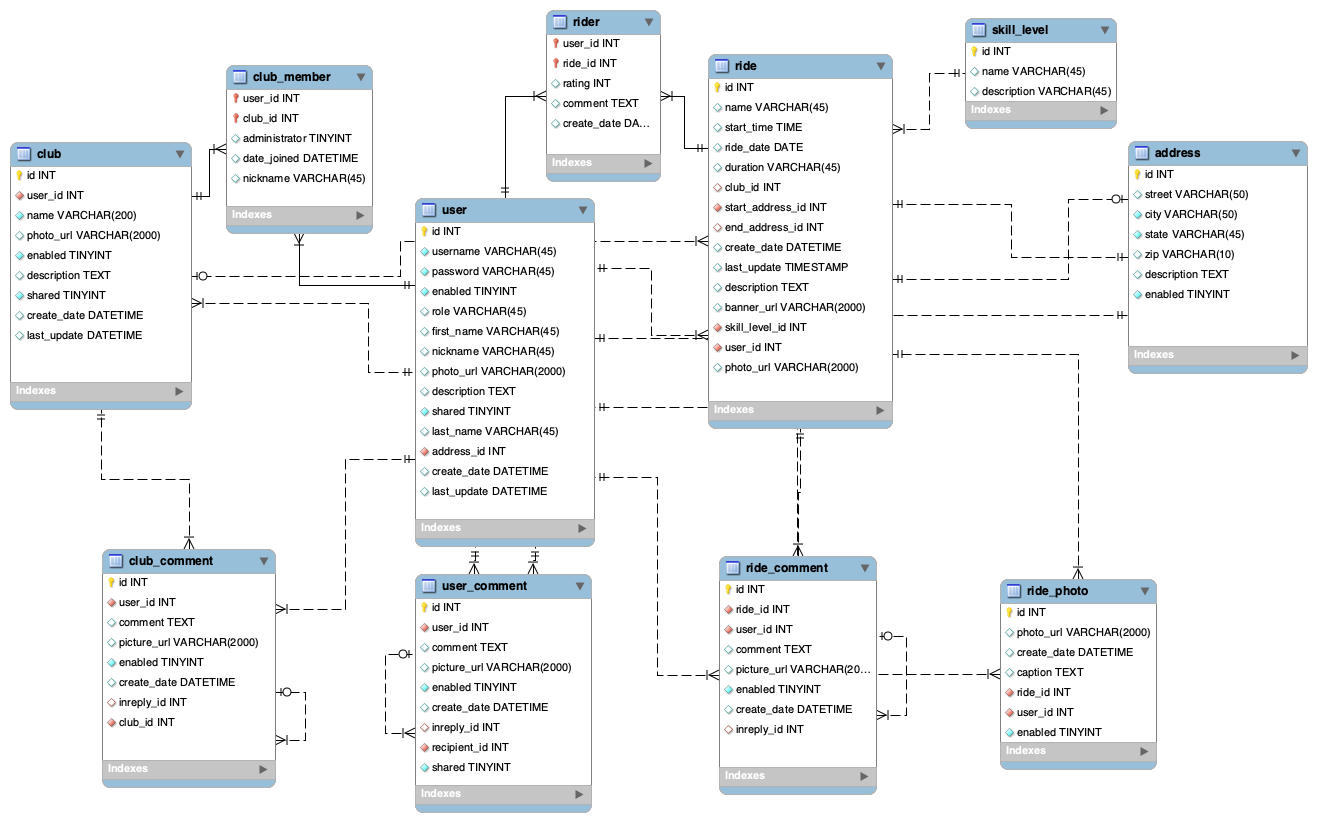
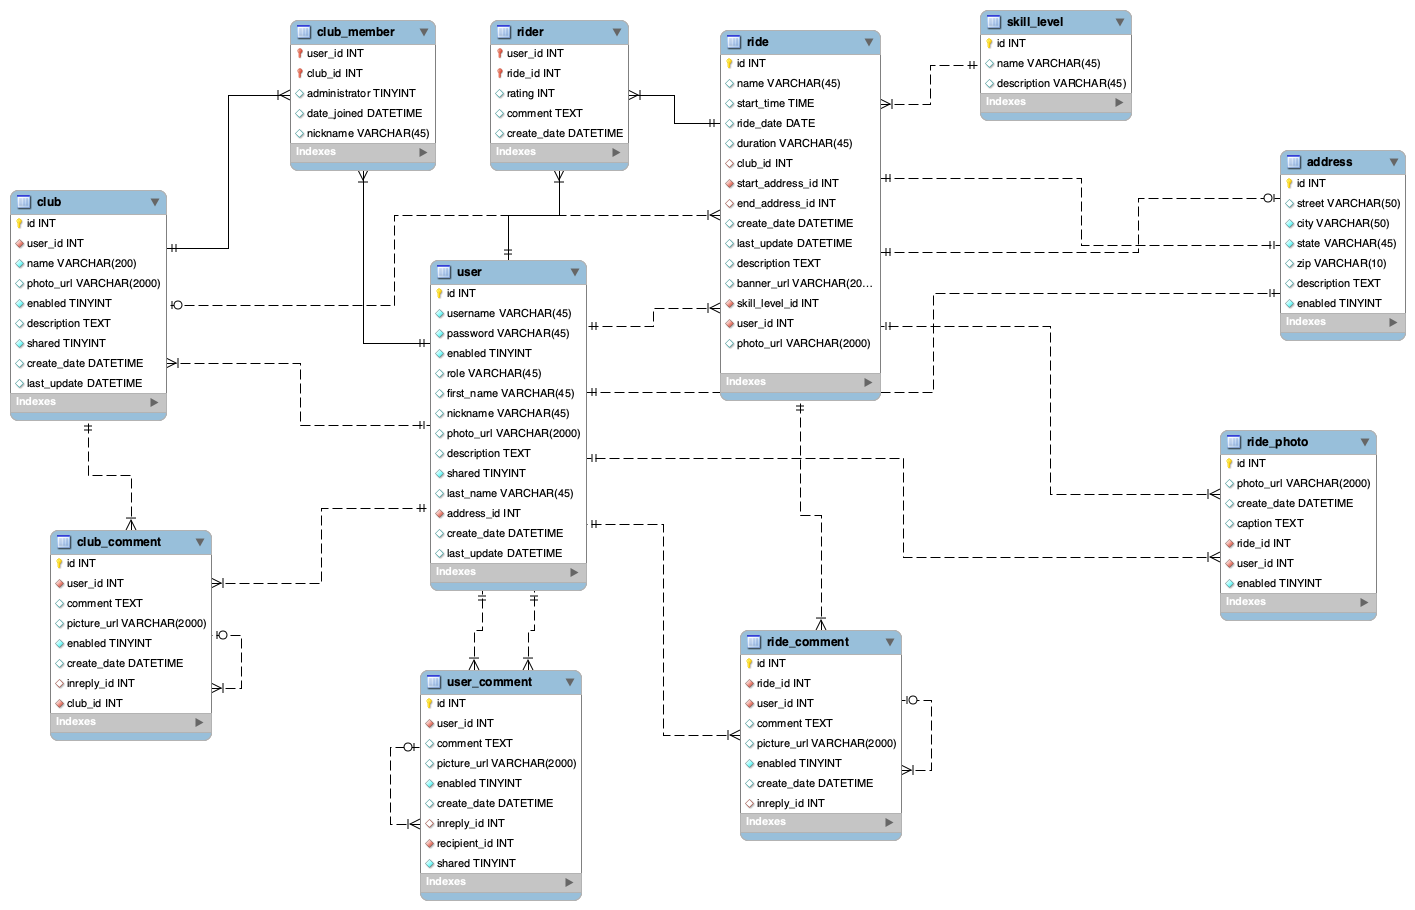
added test for UserCommentTest, also updated DB club_memeber by adding nickname,date joined, and made admin not null. Defaulted admin to false.

diff --git a/JPARideFinder/src/test/java/com/skilldistillery/ridefinder/entities/UserCommentTest.java b/JPARideFinder/src/test/java/com/skilldistillery/ridefinder/entities/UserCommentTest.java
@@ -1,0 +1,88 @@
+package com.skilldistillery.ridefinder.entities;
+
+import static org.junit.jupiter.api.Assertions.assertEquals;
+import static org.junit.jupiter.api.Assertions.assertNotNull;
+
+import java.time.LocalDateTime;
+import java.time.Month;
+
+import javax.persistence.EntityManager;
+import javax.persistence.EntityManagerFactory;
+import javax.persistence.Persistence;
+
+import org.junit.jupiter.api.AfterAll;
+import org.junit.jupiter.api.AfterEach;
+import org.junit.jupiter.api.BeforeAll;
+import org.junit.jupiter.api.BeforeEach;
+import org.junit.jupiter.api.Test;
+
+class UserCommentTest {
+	
+	private static EntityManagerFactory emf;
+	private EntityManager em;
+	private UserComment userComment;
+
+	@BeforeAll
+	static void setUpBeforeClass() throws Exception {
+		emf = Persistence.createEntityManagerFactory("JPARideFinder");
+	}
+
+	@AfterAll
+	static void tearDownAfterClass() throws Exception {
+		emf.close();
+	}
+
+	@BeforeEach
+	void setUp() throws Exception {
+		em = emf.createEntityManager();
+		userComment = em.find(UserComment.class, 1);
+	}
+
+	@AfterEach
+	void tearDown() throws Exception {
+		em.close();
+		userComment = null;
+	}
+
+	@Test
+	void test_Basic() {
+		assertNotNull(userComment);
+		assertEquals("Check this out!", userComment.getComment());
+		LocalDateTime returnDate = userComment.getCreateDate();
+		assertNotNull(returnDate);
+		assertEquals(2023, returnDate.getYear());
+		assertEquals(Month.SEPTEMBER, returnDate.getMonth());
+
+	}
+	
+	@Test
+	void test_UserComment_RecipientId_ManyToOne_Relationship_Mapping() {
+		assertNotNull(userComment);
+		assertEquals("Bill",userComment.getRecipientId().getFirstName());
+
+	}
+	
+	@Test
+	void test_UserComment_UserId_ManyToOne_Relationship_Mapping() {
+		assertNotNull(userComment);
+		assertEquals("admin", userComment.getUserId().getUsername());
+
+	}
+	
+	//cant test right now because DB does not have any info for inreply_id column
+	
+//	@Test
+//	void test_UserComment_UserComment_ManyToOne_Relationship_Mapping() {
+//		assertNotNull(userComment);
+//		assertEquals(null, userComment.getUserComment().getComment());
+//
+//	}
+	
+	@Test
+	void test_UseComment_UserReplies_OneToMany_Relationship_Mapping() {
+		assertNotNull(userComment);
+		assertNotNull(userComment.getUserReplies().size()> 0);
+
+	}
+	
+}
